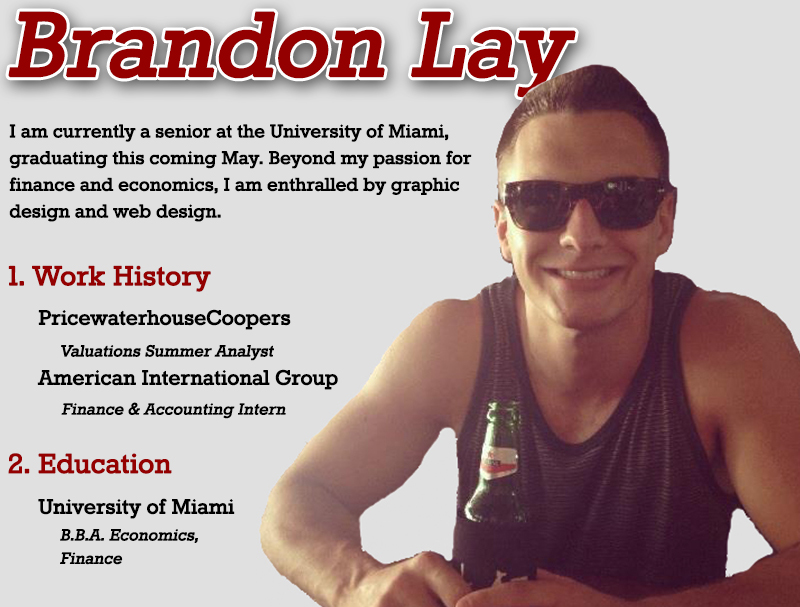
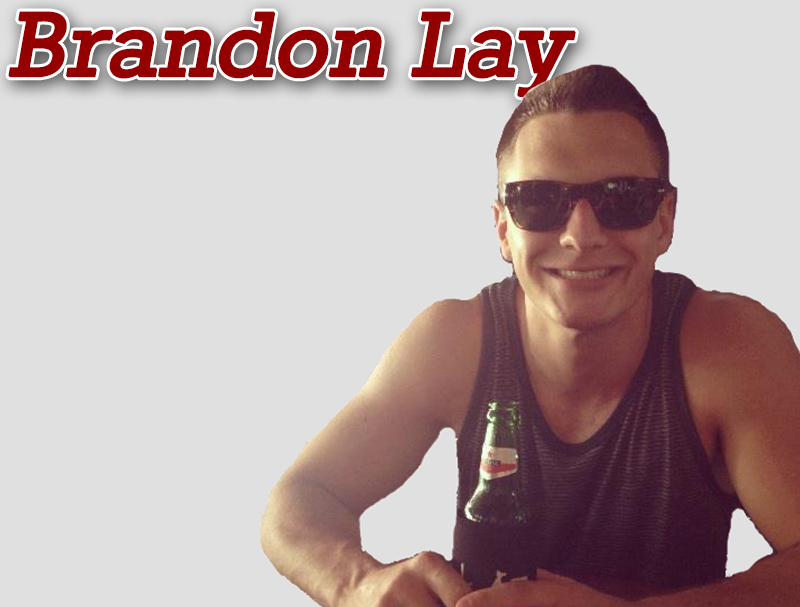
Change Home Page CSS
Still get validator error for font for home page

diff --git a/index.html b/index.html
@@ -37,8 +37,30 @@
  			</div>	
 
  			<article>
- 				<img src="img/homepic.jpg" alt="brandon">
- 				<!--I tried for hours to replicate this look using image overflow but one of the multiple different divs required would always obstruct the image some way or another.In the end the only way I could get this look was by using an image. !--> 
+ 				<img src="img/homepic.jpg" alt="brandon" id="homepic">
+
+ 				<div id="text-overflow">
+
+ 				<h4>I am currently a senior a the University of Miami, graduating this coming May. Beyond my passion for finance and economics, I am enthralled by graphic deisgn and web design</h4>
+
+ 				<h2>Work</h2>
+
+ 				<dl>
+ 					<dt>PricewaterhouseCoopers
+ 					<dd>Valuations Summer Analyst</dd>
+ 					<dt>American International Group</dt>
+ 					<dd>Finance &amp; Accounting Intern</dd>
+ 				</dl>
+
+ 				<h2>Education</h2>
+				
+				<dl>
+ 					<dt>University of Miami</dt>
+ 					<dd>B.B.A. Economics, Finance</dd>
+ 				</dl>
+
+ 				</div>
+
  			</article>
 
  			<footer>

diff --git a/css/style.css b/css/style.css
@@ -68,15 +68,32 @@ footer ul li{
 }
 
 
-#homepicture{
-	float:right;
-	margin-top:0px;
+dl{
+	padding-left:35px;
+	margin-top: 4px;
+}
+
+dt{
+	font-family: "Rokkitt" serif;
+	font-weight: bold;
+	font-size: 22px;
+	padding-top: 5px;
+	padding-bottom: 5px}
+
+dd{
+	font-family: "Rokkitt" serif;
+	font-weight: lighter;
+	font-size: 20px;
+	margin-left: 15px;
+	font-style: italic;
 }
 
 #hometitle{
 	margin-left:10px;
 	margin-top:40px;
 }
+
+
 
 nav{
 	width:415px;
@@ -230,6 +247,26 @@ article{
 	text-align: right;
 }
 
+
+#text-overflow{
+	position: absolute;
+	top:420px;
+	width:490px;
+	padding-left: 5px;
+}
+
+#text-overflow h2{
+	font-family: "Rokkitt" serif;
+	font-size: 40px;
+	color: #940000;
+	padding-top: 20px;
+}
+
+#text-overflow h4{
+	font-family: "Rokkitt" serif;
+	font-style: italic;
+	font-size: 22px;
+}
 
 
 #slider_container_2 { margin: 1em auto; padding: 15px; width: 700px; background: url(../img/bg.png) no-repeat 0 0; }
